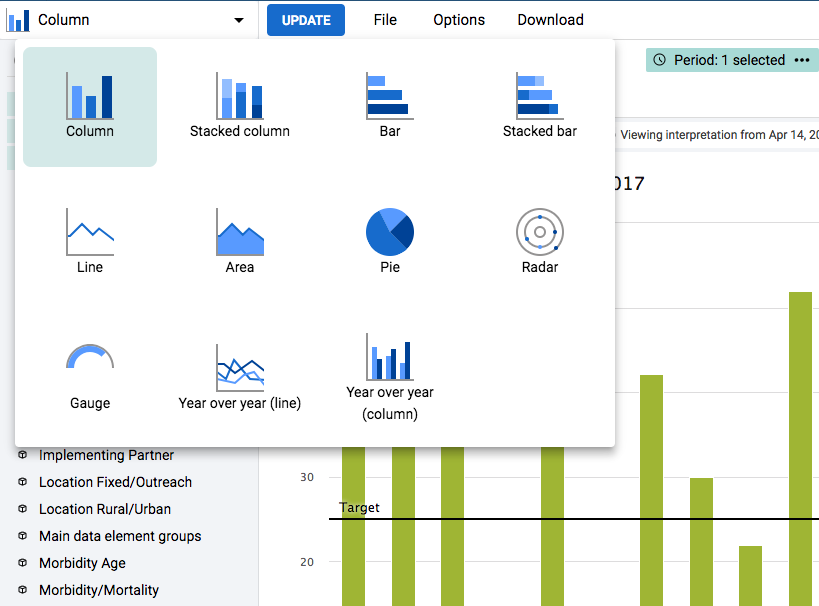
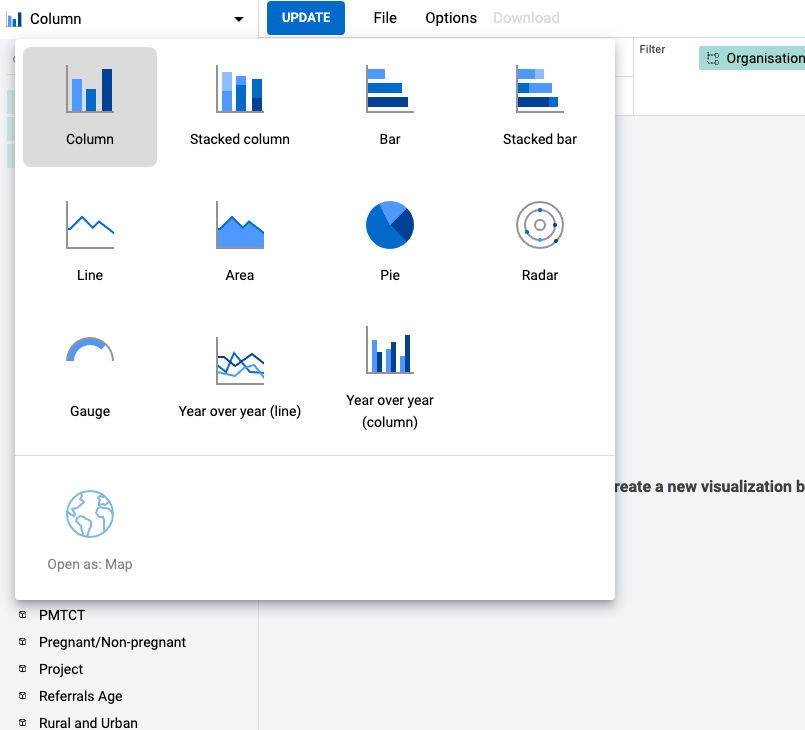
DHIS2-5987 - Add information about data visualizer "open as map" feature (#132)
* Update data visualizer chart types screenshot

* Describe open as map feature in data visualizer app

* Blank lines for correct markdown interpreting

diff --git a/src/commonmark/en/content/user/data-visualizer.md b/src/commonmark/en/content/user/data-visualizer.md
@@ -37,3 +37,9 @@ relevant date, which is indicated next to the chart title.
 
 Clicking on "Back to all interpretations" or the "Exit View" button inside the interpretations panel will clear the
 interpretation and regenerate the chart with the current date.
+
+## See chart as map
+
+Sometimes it can be useful to see how visualization would look like on map. To achieve this you can select "Open as: Map" chart type after you build your chart.
+
+![](resources/images/data-visualizer/data-visualizer-open-as-map.png)
